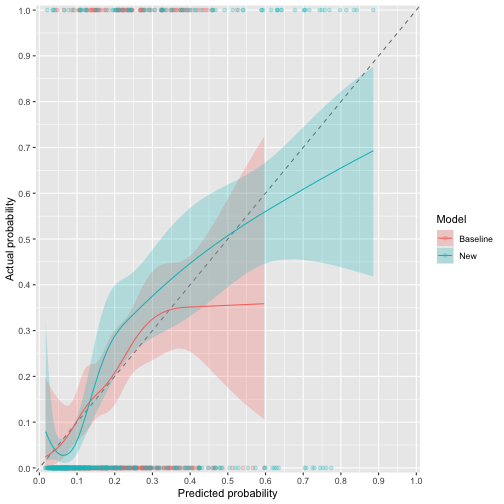
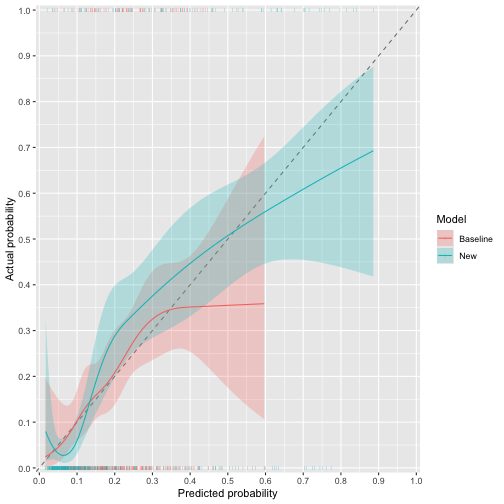
Show ggcalibrate actuals as rug-style marks
Use vertical tick marks (shape "I") at alpha 0.5 instead of circles,
as suggested by John Pickering.

diff --git a/NEWS.md b/NEWS.md
@@ -3,7 +3,7 @@
 ## New features
 
 * New `ggcalibrate_BA()`: a Bland-Altman style calibration plot showing the deviation of the actual event rate from the prediction (Actual - Prediction) against the prediction. Perfect calibration is the horizontal line at zero, which makes under- and over-prediction at clinically relevant thresholds easier to see (John Pickering).
-* `ggcalibrate()` gains `actuals`, to show the actual events (0 or 1) against the predictions, and `alpha_level`, to set the transparency of the confidence interval (John Pickering).
+* `ggcalibrate()` gains `actuals`, to show the actual events (0 or 1) against the predictions as rug-style marks, and `alpha_level`, to set the transparency of the confidence interval (John Pickering).
 
 ## Improvements
 
